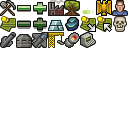
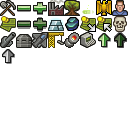
New research tech panel in research view in use.

Changed region(s): [[0.75, 0.25, 1.0, 0.375], [0.0, 0.375, 0.125, 0.5]]

diff --git a/src/org/openRealmOfStars/game/States/ResearchView.java b/src/org/openRealmOfStars/game/States/ResearchView.java
@@ -16,6 +16,7 @@ import org.openRealmOfStars.gui.icons.Icons;
 import org.openRealmOfStars.gui.infopanel.InfoPanel;
 import org.openRealmOfStars.gui.labels.IconLabel;
 import org.openRealmOfStars.gui.panels.InvisiblePanel;
+import org.openRealmOfStars.gui.panels.ResearchTechPanel;
 import org.openRealmOfStars.gui.panels.WorkerProductionPanel;
 import org.openRealmOfStars.player.PlayerInfo;
 
@@ -59,27 +60,27 @@ public class ResearchView extends BlackPanel {
   /**
    * Combat Research panel
    */
-  private WorkerProductionPanel combatRese;
+  private ResearchTechPanel combatRese;
   /**
    * Defense Research panel
    */
-  private WorkerProductionPanel defenseRese;
+  private ResearchTechPanel defenseRese;
   /**
    * Hull Research panel
    */
-  private WorkerProductionPanel hullRese;
+  private ResearchTechPanel hullRese;
   /**
    * Improvement Research panel
    */
-  private WorkerProductionPanel improvementRese;
+  private ResearchTechPanel improvementRese;
   /**
    * Propulsion Research panel
    */
-  private WorkerProductionPanel propulsionRese;
+  private ResearchTechPanel propulsionRese;
   /**
    * Electronics Research panel
    */
-  private WorkerProductionPanel electronicsRese;
+  private ResearchTechPanel electronicsRese;
   
   /**
    * Create new research for player
@@ -100,45 +101,51 @@ public class ResearchView extends BlackPanel {
     label.setAlignmentX(Component.CENTER_ALIGNMENT);
     invis.add(label);
     invis.add(Box.createRigidArea(new Dimension(10,15)));
-    combatRese = new WorkerProductionPanel(invis, 
+    combatRese = new ResearchTechPanel(invis, 
         GameCommands.COMMAND_MINUS_COMBAT_RESEARCH,
         GameCommands.COMMAND_PLUS_COMBAT_RESEARCH, Icons.ICON_COMBAT_TECH,
-        "Combat 100%", "Focus on combat technology", listener);
+        "Combat 100%", "Focus on combat technology","Level:1 (1/6)",
+        GameCommands.COMMAND_UPGRADE_COMBAT, listener);
     combatRese.setAlignmentX(Component.CENTER_ALIGNMENT);
     invis.add(combatRese);
     invis.add(Box.createRigidArea(new Dimension(10,10)));
-    defenseRese = new WorkerProductionPanel(invis, 
+    defenseRese = new ResearchTechPanel(invis, 
         GameCommands.COMMAND_MINUS_DEFENSE_RESEARCH,
         GameCommands.COMMAND_PLUS_DEFENSE_RESEARCH, Icons.ICON_DEFENSE_TECH,
-        "Defense 100%", "Focus on defense technology", listener);
+        "Defense 100%", "Focus on defense technology","Level:1 (1/6)",
+        GameCommands.COMMAND_UPGRADE_DEFENSE, listener);
     defenseRese.setAlignmentX(Component.CENTER_ALIGNMENT);
     invis.add(defenseRese);
     invis.add(Box.createRigidArea(new Dimension(10,10)));
-    hullRese = new WorkerProductionPanel(invis, 
+    hullRese = new ResearchTechPanel(invis, 
         GameCommands.COMMAND_MINUS_HULL_RESEARCH,
         GameCommands.COMMAND_PLUS_HULL_RESEARCH, Icons.ICON_HULL_TECH,
-        "Hull 100%", "Focus on hull technology", listener);
+        "Hull 100%", "Focus on hull technology", "Level:1 (1/6)",
+        GameCommands.COMMAND_UPGRADE_HULL, listener);
     hullRese.setAlignmentX(Component.CENTER_ALIGNMENT);
     invis.add(hullRese);
     invis.add(Box.createRigidArea(new Dimension(10,10)));
-    improvementRese = new WorkerProductionPanel(invis, 
+    improvementRese = new ResearchTechPanel(invis, 
         GameCommands.COMMAND_MINUS_IMPROVEMENT_RESEARCH,
         GameCommands.COMMAND_PLUS_IMPROVEMENT_RESEARCH, Icons.ICON_IMPROVEMENT_TECH,
-        "Planetary improvement 100%", "Focus on planetary improvement technology", listener);
+        "Planetary improvement 100%", "Focus on planetary improvement technology",
+        "Level:1 (1/6)",GameCommands.COMMAND_UPGRADE_IMPROVEMENT, listener);
     improvementRese.setAlignmentX(Component.CENTER_ALIGNMENT);
     invis.add(improvementRese);
     invis.add(Box.createRigidArea(new Dimension(10,10)));
-    propulsionRese = new WorkerProductionPanel(invis, 
+    propulsionRese = new ResearchTechPanel(invis, 
         GameCommands.COMMAND_MINUS_PROPULSION_RESEARCH,
         GameCommands.COMMAND_PLUS_PROPULSION_RESEARCH, Icons.ICON_PROPULSION_TECH,
-        "Propulsion 100%", "Focus on propulsion technology", listener);
+        "Propulsion 100%", "Focus on propulsion technology", "Level:1 (1/6)",
+        GameCommands.COMMAND_UPGRADE_PROPULSION, listener);
     propulsionRese.setAlignmentX(Component.CENTER_ALIGNMENT);
     invis.add(propulsionRese);
     invis.add(Box.createRigidArea(new Dimension(10,10)));
-    electronicsRese = new WorkerProductionPanel(invis, 
+    electronicsRese = new ResearchTechPanel(invis, 
         GameCommands.COMMAND_MINUS_ELECTRONICS_RESEARCH,
         GameCommands.COMMAND_PLUS_ELECTRONICS_RESEARCH, Icons.ICON_ELECTRONICS_TECH,
-        "Electronics 100%", "Focus on electronics technology", listener);
+        "Electronics 100%", "Focus on electronics technology", "Level:1 (1/6)",
+        GameCommands.COMMAND_UPGRADE_ELECTRONICS, listener);
     electronicsRese.setAlignmentX(Component.CENTER_ALIGNMENT);
     invis.add(electronicsRese);
     invis.add(Box.createRigidArea(new Dimension(10,10)));

diff --git a/src/org/openRealmOfStars/gui/panels/ResearchTechPanel.java b/src/org/openRealmOfStars/gui/panels/ResearchTechPanel.java
@@ -1,0 +1,162 @@
+package org.openRealmOfStars.gui.panels;
+
+import java.awt.Component;
+import java.awt.event.ActionListener;
+
+import javax.swing.BoxLayout;
+
+import org.openRealmOfStars.gui.buttons.IconButton;
+import org.openRealmOfStars.gui.icons.Icons;
+import org.openRealmOfStars.gui.labels.IconLabel;
+
+/**
+ * 
+ * Open Realm of Stars game project
+ * Copyright (C) 2016  Tuomo Untinen
+ *
+ * This program is free software; you can redistribute it and/or
+ * modify it under the terms of the GNU General Public License
+ * as published by the Free Software Foundation; either version 2
+ * of the License, or (at your option) any later version.
+ * 
+ * This program is distributed in the hope that it will be useful,
+ * but WITHOUT ANY WARRANTY; without even the implied warranty of
+ * MERCHANTABILITY or FITNESS FOR A PARTICULAR PURPOSE.  See the
+ * GNU General Public License for more details.
+ * 
+ * You should have received a copy of the GNU General Public License
+ * along with this program; if not, see http://www.gnu.org/licenses/
+ * 
+ * 
+ * Class for handling research tech
+ * 
+ */
+
+public class ResearchTechPanel extends InvisiblePanel {
+
+  /**
+   * 
+   */
+  private static final long serialVersionUID = 1L;
+  
+  /**
+   * Minus button
+   */
+  private IconButton btnMinus;
+  
+  /**
+   * Plus button
+   */
+  private IconButton btnPlus;
+  
+  /**
+   * Label to show tech focus
+   */
+  private IconLabel label;
+
+  /**
+   * Level Label to show
+   */
+  private IconLabel lvlLabel;
+
+  /**
+   * upgrade button
+   */
+  private IconButton btnUpgrade;
+
+  /**
+   * Create Research Tech panel with - and + buttons and up arrow to
+   * upgrade tech level.
+   * @param parent Parent component to draw opaque
+   * @param actionMinus ActionCommand for minus button
+   * @param actionPlus ActionCommand for plus button
+   * @param iconName Icon name to show
+   * @param text Text for tech focus label
+   * @param toolTip Tool tip for label
+   * @param text2 Text for tech level label
+   * @param actionUpgrade ActionCommand for upgrade button
+   * @param listener Action Listener
+   */
+  public ResearchTechPanel(Component parent,String actionMinus, 
+      String actionPlus,String iconName, String text, String toolTip, String text2,
+      String actionUpgrade, ActionListener listener) {
+    super(parent);
+    this.setLayout(new BoxLayout(this, BoxLayout.X_AXIS));
+    btnMinus = new IconButton(Icons.getIconByName(Icons.ICON_MINUS), 
+        Icons.getIconByName(Icons.ICON_MINUS_PRESSED), false, actionMinus,this);
+    btnMinus.addActionListener(listener);
+    this.add(btnMinus);
+    InvisiblePanel invis = new InvisiblePanel(this);
+    invis.setLayout(new BoxLayout(invis, BoxLayout.Y_AXIS));
+    
+    label = new IconLabel(this, Icons.getIconByName(iconName),text);
+    label.setToolTipText(toolTip);
+    invis.add(label);
+    lvlLabel = new IconLabel(this, Icons.getIconByName(Icons.ICON_EMPTY),text2);
+    invis.add(lvlLabel);
+    
+    this.add(invis);
+    
+    btnUpgrade = new IconButton(Icons.getIconByName(Icons.ICON_ARROWUP),
+        Icons.getIconByName(Icons.ICON_ARROWUP_PRESSED),false,actionUpgrade,this);
+    btnUpgrade.setDisabledImage(Icons.getIconByName(
+        Icons.ICON_ARROWUP_DISABLED).getIcon());
+    btnUpgrade.setEnabled(false);
+    
+    this.add(btnUpgrade);
+    
+    btnPlus = new IconButton(Icons.getIconByName(Icons.ICON_PLUS), 
+        Icons.getIconByName(Icons.ICON_PLUS_PRESSED), false, actionPlus,this);
+    btnPlus.addActionListener(listener);
+    this.add(btnPlus);
+  }
+  
+  /**
+   * Set label text
+   * @param text to show
+   */
+  public void setText(String text) {
+    label.setText(text);
+  }
+  
+  /**
+   * Set Minus button tool tip
+   * @param text Tool tip to show
+   */
+  public void setMinusToolTip(String text) {
+    btnMinus.setToolTipText(text);
+  }
+
+  /**
+   * Set Plus button tool tip
+   * @param text Tool tip to show
+   */
+  public void setPlusToolTip(String text) {
+    btnPlus.setToolTipText(text);
+  }
+  
+  /**
+   * Enabled or disable upgrade button
+   * @param value true to enable and false to disable
+   */
+  public void setEnableUpgradeButton(boolean value) {
+    btnUpgrade.setEnabled(value);
+  }
+  
+  /**
+   * Set Upgrade button text to text
+   * @param text Text for button
+   */
+  public void setUpgadeBtnText(String text) {
+    btnUpgrade.setText(text);
+  }
+
+  /**
+   * Set Upgrade button tool tip text
+   * @param text Text for tool tip
+   */
+  public void setUpgadeBtnToolTip(String text) {
+    btnUpgrade.setToolTipText(text);
+  }
+
+}

diff --git a/src/org/openRealmOfStars/gui/buttons/IconButton.java b/src/org/openRealmOfStars/gui/buttons/IconButton.java
@@ -35,7 +35,8 @@ import org.openRealmOfStars.gui.icons.Icon16x16;
  * along with this program; if not, see http://www.gnu.org/licenses/
  * 
  * 
- * Class for handling IconButton
+ * Class for handling IconButton. Separate images for normal, pressing
+ * and disabled image.
  *
  */
 
@@ -54,6 +55,11 @@ public class IconButton extends JButton {
    * Icon when pressed
    */
   private BufferedImage pressedImage;
+  /**
+   * Icon when disabled
+   */
+  private BufferedImage disabledImage;
+
   /**
    * Is Border present on button
    */
@@ -122,9 +128,9 @@ public class IconButton extends JButton {
       y = y -getPressedImage().getHeight()/2;
       if(isBorder()) {
         this.setBorder(BorderFactory.createEtchedBorder(EtchedBorder.LOWERED));        
-        g.drawImage(getPressedImage(), x+2,y+2, null);        
+        g.drawImage(getDisabledImage(), x+2,y+2, null);        
       } else {
-        g.drawImage(getPressedImage(), x,y, null);
+        g.drawImage(getDisabledImage(), x,y, null);
       }
      
     }
@@ -167,6 +173,23 @@ public class IconButton extends JButton {
 
   public boolean isBorder() {
     return border;
+  }
+
+
+
+
+  public BufferedImage getDisabledImage() {
+    if (disabledImage == null) {
+      return pressedImage;
+    } 
+    return disabledImage;
+  }
+
+
+
+
+  public void setDisabledImage(BufferedImage disabledImage) {
+    this.disabledImage = disabledImage;
   }
   
 }

diff --git a/src/org/openRealmOfStars/gui/icons/Icons.java b/src/org/openRealmOfStars/gui/icons/Icons.java
@@ -54,6 +54,10 @@ public class Icons {
   public static final String ICON_IMPROVEMENT_TECH = "ImprovementTech";
   public static final String ICON_PROPULSION_TECH = "PropulsionTech";
   public static final String ICON_ELECTRONICS_TECH = "ElectronicsTech";
+  public static final String ICON_ARROWUP = "ArrowUp";
+  public static final String ICON_ARROWUP_PRESSED = "ArrowUp_Pressed";
+  public static final String ICON_ARROWUP_DISABLED = "ArrowUp_Disabled";
+  public static final String ICON_EMPTY = "Empty";
   
   /**
    * List of Icon
@@ -169,6 +173,14 @@ public class Icons {
     icon = new Icon16x16(image, 4, 2,ICON_PROPULSION_TECH);
     addIcon(icon);
     icon = new Icon16x16(image, 5, 2,ICON_ELECTRONICS_TECH);
+    addIcon(icon);
+    icon = new Icon16x16(image, 6, 2,ICON_ARROWUP);
+    addIcon(icon);
+    icon = new Icon16x16(image, 7, 2,ICON_ARROWUP_PRESSED);
+    addIcon(icon);
+    icon = new Icon16x16(image, 0, 3,ICON_ARROWUP_DISABLED);
+    addIcon(icon);
+    icon = new Icon16x16(image, 1, 3,ICON_EMPTY);
     addIcon(icon);
   }
   

diff --git a/src/org/openRealmOfStars/game/GameCommands.java b/src/org/openRealmOfStars/game/GameCommands.java
@@ -148,6 +148,31 @@ public class GameCommands {
   public static final String COMMAND_PLUS_ELECTRONICS_RESEARCH = "PlusElectronicsRese";
 
   /**
+   * Upgrade combat
+   */
+  public static final String COMMAND_UPGRADE_COMBAT = "UpgradeCombat";
+  /**
+   * Upgrade defense
+   */
+  public static final String COMMAND_UPGRADE_DEFENSE = "UpgradeDefense";
+  /**
+   * Upgrade hull
+   */
+  public static final String COMMAND_UPGRADE_HULL = "UpgradeHull";
+  /**
+   * Upgrade improvement
+   */
+  public static final String COMMAND_UPGRADE_IMPROVEMENT = "UpgradeImprovement";
+  /**
+   * Upgrade propulsion
+   */
+  public static final String COMMAND_UPGRADE_PROPULSION = "UpgradePropulsion";
+  /**
+   * Upgrade electronics
+   */
+  public static final String COMMAND_UPGRADE_ELECTRONICS = "UpgradeElectronics";
+
+  /**
    * Production list changed in planet
    */
   public static final String COMMAND_PRODUCTION_LIST = "ProductionList";
